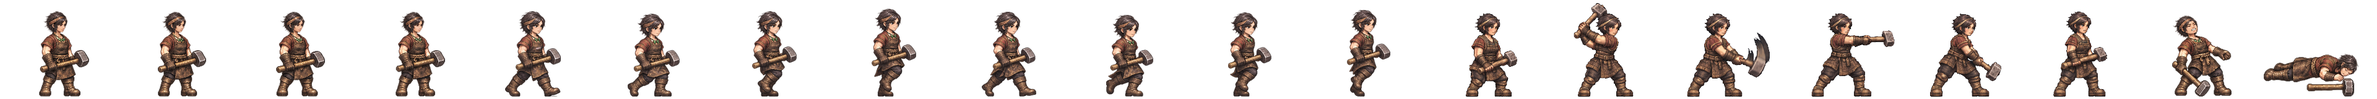
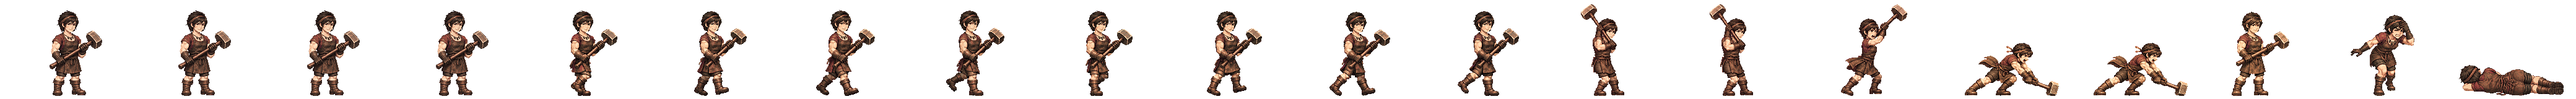
대가야 쇠모 전투 띠를 새 방식으로: 서기·걷기·쇠망치 내려찍기 여덟 칸·머리띠 고치기·쓰러짐·맞음 (Codex 그림 · 눈 검수와 독립 검수) · 옛 2배 그림 연결 지움
Claude-Session: https://claude.ai/code/session_01TRiuN7s6aDfSnaHxrkctmU

Changed region(s): [[0.0, 0.0312, 1.0, 1.0]]

diff --git a/src/realm/data/spritePx.ts b/src/realm/data/spritePx.ts
@@ -1,3 +1,3 @@
 /** public/realm/anim-px/manifest.json 의 사본 — tools/sprite-normalize.mjs 가 만든다 (손으로 고치지 말 것). 칸 [가로, 세로] · feet = 발 줄(칸 위에서 y) · bodyPx = 서 있는 몸 키 */
 import { expandManifest } from './sprite-manifest.ts'
-export const SPRITE_PX: Readonly<Record<string, { readonly cell: readonly [number, number]; readonly feet: number; readonly bodyPx: number; readonly kind: 'general' | 'soldier' | 'folk' | 'crowd'; readonly cells: number }>> = expandManifest<{ readonly cell: readonly [number, number]; readonly feet: number; readonly bodyPx: number; readonly kind: 'general' | 'soldier' | 'folk' | 'crowd'; readonly cells: number }>([{"cell":[166,128],"feet":126,"bodyPx":124,"kind":"soldier","cells":20},{"cell":[116,128],"feet":126,"bodyPx":117,"kind":"soldier","cells":20},{"cell":[127,128],"feet":126,"bodyPx":116,"kind":"soldier","cells":20},{"cell":[269,128],"feet":126,"bodyPx":126,"kind":"soldier","cells":20},{"cell":[503,128],"feet":126,"bodyPx":127,"kind":"soldier","cells":20},{"cell":[614,128],"feet":126,"bodyPx":126,"kind":"soldier","cells":20},{"cell":[200,160],"feet":156,"bodyPx":138,"kind":"general","cells":20},{"cell":[208,160],"feet":155,"bodyPx":138,"kind":"general","cells":20},{"cell":[208,160],"feet":154,"bodyPx":138,"kind":"general","cells":20},{"cell":[304,160],"feet":155,"bodyPx":135,"kind":"general","cells":20},{"cell":[184,160],"feet":156,"bodyPx":138,"kind":"general","cells":20},{"cell":[208,160],"feet":154,"bodyPx":136,"kind":"general","cells":20},{"cell":[232,160],"feet":156,"bodyPx":138,"kind":"general","cells":20},{"cell":[208,160],"feet":156,"bodyPx":138,"kind":"general","cells":20},{"cell":[168,160],"feet":156,"bodyPx":124,"kind":"general","cells":20},{"cell":[216,160],"feet":156,"bodyPx":130,"kind":"general","cells":20},{"cell":[200,160],"feet":156,"bodyPx":116,"kind":"general","cells":20},{"cell":[192,160],"feet":156,"bodyPx":138,"kind":"general","cells":20},{"cell":[208,160],"feet":154,"bodyPx":135,"kind":"general","cells":20},{"cell":[280,160],"feet":156,"bodyPx":138,"kind":"general","cells":20},{"cell":[232,160],"feet":156,"bodyPx":134,"kind":"general","cells":20},{"cell":[144,160],"feet":156,"bodyPx":70,"kind":"general","cells":20},{"cell":[208,160],"feet":156,"bodyPx":70,"kind":"general","cells":20},{"cell":[192,160],"feet":156,"bodyPx":70,"kind":"general","cells":20},{"cell":[240,160],"feet":155,"bodyPx":138,"kind":"general","cells":20},{"cell":[192,160],"feet":156,"bodyPx":128,"kind":"general","cells":20},{"cell":[224,160],"feet":155,"bodyPx":138,"kind":"general","cells":20},{"cell":[208,160],"feet":154,"bodyPx":137,"kind":"general","cells":20},{"cell":[216,160],"feet":156,"bodyPx":138,"kind":"general","cells":20},{"cell":[208,160],"feet":156,"bodyPx":134,"kind":"general","cells":20},{"cell":[208,160],"feet":154,"bodyPx":130,"kind":"general","cells":20},{"cell":[248,160],"feet":156,"bodyPx":138,"kind":"general","cells":20},{"cell":[248,160],"feet":155,"bodyPx":138,"kind":"general","cells":20},{"cell":[192,160],"feet":155,"bodyPx":138,"kind":"general","cells":20},{"cell":[192,160],"feet":156,"bodyPx":124,"kind":"general","cells":20},{"cell":[208,160],"feet":154,"bodyPx":131,"kind":"general","cells":20},{"cell":[256,160],"feet":156,"bodyPx":138,"kind":"general","cells":20},{"cell":[240,160],"feet":156,"bodyPx":138,"kind":"general","cells":20},{"cell":[232,160],"feet":156,"bodyPx":73,"kind":"general","cells":20},{"cell":[224,160],"feet":156,"bodyPx":138,"kind":"general","cells":20},{"cell":[224,160],"feet":156,"bodyPx":128,"kind":"general","cells":20},{"cell":[176,160],"feet":156,"bodyPx":129,"kind":"general","cells":20},{"cell":[208,160],"feet":154,"bodyPx":139,"kind":"general","cells":20},{"cell":[232,160],"feet":155,"bodyPx":138,"kind":"general","cells":20},{"cell":[208,160],"feet":156,"bodyPx":132,"kind":"general","cells":20},{"cell":[184,160],"feet":156,"bodyPx":122,"kind":"general","cells":20},{"cell":[280,160],"feet":155,"bodyPx":133,"kind":"general","cells":20},{"cell":[176,160],"feet":156,"bodyPx":70,"kind":"general","cells":20},{"cell":[186,128],"feet":126,"bodyPx":127,"kind":"soldier","cells":20},{"cell":[298,128],"feet":126,"bodyPx":126,"kind":"soldier","cells":20},{"cell":[82,128],"feet":126,"bodyPx":114,"kind":"folk","cells":8},{"cell":[134,128],"feet":126,"bodyPx":119,"kind":"soldier","cells":20},{"cell":[380,128],"feet":126,"bodyPx":124,"kind":"soldier","cells":20},{"cell":[114,128],"feet":126,"bodyPx":115,"kind":"soldier","cells":20},{"cell":[122,128],"feet":126,"bodyPx":114,"kind":"soldier","cells":20},{"cell":[254,128],"feet":126,"bodyPx":128,"kind":"soldier","cells":20},{"cell":[438,128],"feet":126,"bodyPx":126,"kind":"soldier","cells":20},{"cell":[88,128],"feet":126,"bodyPx":113,"kind":"folk","cells":8},{"cell":[100,128],"feet":126,"bodyPx":115,"kind":"folk","cells":8},{"cell":[108,128],"feet":126,"bodyPx":115,"kind":"folk","cells":8},{"cell":[63,128],"feet":126,"bodyPx":113,"kind":"folk","cells":8},{"cell":[69,96],"feet":96,"bodyPx":96,"kind":"crowd","cells":1},{"cell":[54,96],"feet":96,"bodyPx":96,"kind":"crowd","cells":1},{"cell":[47,96],"feet":96,"bodyPx":96,"kind":"crowd","cells":1},{"cell":[49,96],"feet":96,"bodyPx":96,"kind":"crowd","cells":1},{"cell":[57,96],"feet":96,"bodyPx":96,"kind":"crowd","cells":1},{"cell":[55,96],"feet":96,"bodyPx":96,"kind":"crowd","cells":1},{"cell":[45,96],"feet":96,"bodyPx":96,"kind":"crowd","cells":1},{"cell":[53,96],"feet":96,"bodyPx":96,"kind":"crowd","cells":1},{"cell":[64,96],"feet":96,"bodyPx":96,"kind":"crowd","cells":1},{"cell":[264,160],"feet":156,"bodyPx":138,"kind":"general","cells":20},{"cell":[184,160],"feet":156,"bodyPx":124,"kind":"general","cells":20},{"cell":[208,160],"feet":154,"bodyPx":134,"kind":"general","cells":20},{"cell":[224,160],"feet":156,"bodyPx":133,"kind":"general","cells":20},{"cell":[184,160],"feet":156,"bodyPx":137,"kind":"general","cells":20},{"cell":[176,160],"feet":156,"bodyPx":130,"kind":"general","cells":20},{"cell":[216,160],"feet":156,"bodyPx":134,"kind":"general","cells":20},{"cell":[216,160],"feet":156,"bodyPx":132,"kind":"general","cells":20},{"cell":[288,160],"feet":156,"bodyPx":138,"kind":"general","cells":20},{"cell":[192,160],"feet":156,"bodyPx":118,"kind":"general","cells":20},{"cell":[208,160],"feet":154,"bodyPx":132,"kind":"general","cells":20},{"cell":[208,160],"feet":154,"bodyPx":128,"kind":"general","cells":20},{"cell":[240,160],"feet":156,"bodyPx":128,"kind":"general","cells":20},{"cell":[184,160],"feet":156,"bodyPx":132,"kind":"general","cells":20},{"cell":[208,160],"feet":156,"bodyPx":123,"kind":"general","cells":20},{"cell":[192,160],"feet":156,"bodyPx":135,"kind":"general","cells":20},{"cell":[176,160],"feet":156,"bodyPx":116,"kind":"general","cells":20},{"cell":[272,160],"feet":156,"bodyPx":138,"kind":"general","cells":20},{"cell":[176,160],"feet":156,"bodyPx":138,"kind":"general","cells":20},{"cell":[176,160],"feet":156,"bodyPx":122,"kind":"general","cells":20},{"cell":[232,160],"feet":156,"bodyPx":127,"kind":"general","cells":20},{"cell":[184,160],"feet":156,"bodyPx":134,"kind":"general","cells":20},{"cell":[168,160],"feet":156,"bodyPx":138,"kind":"general","cells":20},{"cell":[176,160],"feet":156,"bodyPx":137,"kind":"general","cells":20},{"cell":[184,160],"feet":156,"bodyPx":133,"kind":"general","cells":20}],[["axe",0],["bandit-chief",1],["bandit-club",2],["boat",3],["bow",4],["crossbow",5],["gen-adogan",6],["gen-alpyeong",7],["gen-ara",8],["gen-areum",8],["gen-aryeong",9],["gen-bakdal",8],["gen-baram",8],["gen-bdanbi",10],["gen-beom",11],["gen-beombal",8],["gen-beomi",8],["gen-bira",12],["gen-biryu",13],["gen-budeul",8],["gen-byeol",8],["gen-daemusin",14],["gen-daeso",15],["gen-dallae2",10],["gen-dalli",8],["gen-damul",16],["gen-danbi",8],["gen-dangung",17],["gen-darae",18],["gen-dokmudeom",8],["gen-duman",19],["gen-eomni",8],["gen-eureum",20],["gen-g-bow",21],["gen-g-spear",22],["gen-g-sword",23],["gen-gaennae",8],["gen-gamsil",24],["gen-gaon",18],["gen-geota",13],["gen-geumbawi",10],["gen-geumha",25],["gen-goeun",8],["gen-gom",26],["gen-gomok",13],["gen-gureum",8],["gen-guryema",17],["gen-gwaeyu",12],["gen-haebi",8],["gen-haedal",6],["gen-haesol",8],["gen-halla",27],["gen-heo",8],["gen-hneoul",10],["gen-hogong",28],["gen-hojin",13],["gen-horselord",29],["gen-hwalmi",30],["gen-hyeokgeose",17],["gen-hyeopbo",6],["gen-irang",8],["gen-jibaekho",31],["gen-jinha",32],["gen-jita",33],["gen-jumong",34],["gen-keundol",7],["gen-maehwa",35],["gen-maenun",17],["gen-malgalgi",36],["gen-mari",37],["gen-maro",31],["gen-maryeo",13],["gen-mdallae",8],["gen-mir",6],["gen-mount",38],["gen-mulbeom",27],["gen-mulsae",27],["gen-musoe",28],["gen-noeul",8],["gen-nuri",8],["gen-ocheongan",39],["gen-odi",8],["gen-odogan",6],["gen-ogan",17],["gen-oi",40],["gen-olddaeso",20],["gen-onjo",41],["gen-pidogan",13],["gen-sagong",42],["gen-sdallae",6],["gen-sincheongan",8],["gen-singwigan",28],["gen-sinneoul",8],["gen-sobeol",43],["gen-soebi",6],["gen-soebo",44],["gen-soenun",42],["gen-sogeumbi",27],["gen-songbi",39],["gen-songyang",45],["gen-sori",8],["gen-soseono",46],["gen-suro",17],["gen-tahae",6],["gen-tneoul",8],["gen-w-bow",21],["gen-w-spear",47],["gen-waechief",13],["gen-wan",28],["gen-yeodogan",13],["gen-yucheongan",8],["gen-yusugan",31],["horse",48],["marine",49],["migrant",50],["militia",51],["pike",52],["pirate-captain",53],["pirate-sword",54],["shield",55],["spear",56],["villager-builder",57],["villager-farmer",58],["villager-porter",59],["villager-woman",60],["crowd-b1",61],["crowd-b2",62],["crowd-b3",63],["crowd-b4",64],["crowd-b5",65],["crowd-b6",66],["crowd-f1",61],["crowd-f2",66],["crowd-f3",67],["crowd-f4",68],["crowd-f5",61],["crowd-f6",69],["gen-dalbit",13],["gen-base-g-07-drunk-warrior",17],["gen-base-g-40-anya-adan",13],["gen-base-w-13-young-archer",8],["gen-base-g-03-sea-trader",37],["gen-base-w-10-pirate-captain",42],["gen-base-w-64-miri-dallae",42],["gen-base-g-41-goja-bau",37],["gen-base-g-42-dokro-garam",70],["gen-base-g-09-farmer-conscript",28],["gen-base-w-02-goguryeo-lady",8],["gen-base-w-17-mahan-pearl-diver",8],["gen-base-g-17-saro-isageum",44],["gen-base-g-18-daegaya-king",71],["gen-base-g-35-dabeol-dalgu",13],["gen-base-g-19-sabeol-veteran",28],["gen-base-w-23-usisan-whale-queen",8],["gen-base-g-36-gammun-gamdol",39],["gen-base-g-20-samul-sea-lord",36],["gen-base-g-37-eumjeup-jeup",10],["gen-base-g-38-chopal-palmae",17],["gen-base-w-75-daegaya-soemoe",17],["gen-base-g-45-dabeol-deulgae",10],["gen-base-g-04-jinhan-giant",13],["gen-base-g-08-veteran",13],["gen-base-w-18-jinhan-salt-widow",8],["gen-base-w-12-court-dancer",72],["gen-base-w-83-gyeonji-beodeul",73],["gen-base-w-05-baekje-queen",18],["gen-base-w-21-baekje-court-dancer",10],["gen-base-g-01-master-smith",74],["gen-base-g-93-jomun-solgae",75],["gen-base-g-57-bihwa-neup",37],["gen-base-w-72-eumjeup-beol",8],["gen-base-w-102-garak-dana",42],["gen-base-g-68-baekje-onnuri",13],["gen-base-w-27-mokji-jinha",6],["gen-base-g-22-ungcheon-gomnae",6],["gen-base-g-23-sangdang-soedal",13],["gen-base-g-24-wansan-onsan",6],["gen-base-g-25-balla-keunmoe",28],["gen-base-g-61-heomcheuk-bawi",28],["gen-base-g-88-wander-soeul",39],["gen-base-w-14-feast-spy",8],["gen-base-g-12-silla-youth",76],["gen-base-w-08-mahan-warrior",8],["gen-base-g-62-beonye-hanul",37],["gen-base-g-63-heomcheuk-beogeum",13],["gen-base-g-84-wander-seoneul",13],["gen-base-w-50-siljik-mulga",28],["gen-base-g-46-uga-nureongso",28],["gen-base-w-80-usan-gangchi",42],["gen-base-g-47-guga-sanyanggae",28],["gen-base-w-76-gampyeong-baetsagong",8],["gen-base-g-05-mahan-chieftain",77],["gen-base-g-58-usan-uhae",13],["gen-base-g-27-maek-maekdol",13],["gen-base-w-53-hwanna-gabi",42],["gen-base-w-29-golpo-janmul",31],["gen-base-g-53-baekje-haeru",6],["gen-base-w-71-yeonna-neoul",8],["gen-base-w-79-yangmaek-solmae",8],["gen-base-w-34-chopal-deulme",8],["gen-base-g-44-maga-malgup",78],["gen-base-w-31-dabeol-dalbit",42],["gen-base-g-51-biryuna-mulgyeol",39],["gen-base-g-48-gwanna-musoe",13],["gen-base-g-32-uga-sodu",12],["gen-base-g-49-goguryeo-sona",79],["gen-base-g-30-gwanna-soemoe",39],["gen-base-g-52-tamna-oreum",10],["gen-base-g-29-yeonna-myeongsol",34],["gen-base-w-56-dongokjeo-sogeum",72],["gen-base-g-54-mokji-mahan",12],["gen-base-g-33-jeoga-metdol",17],["gen-base-w-36-baekje-maena",8],["gen-base-w-38-sangdang-bulmae",6],["gen-base-w-39-gosaburi-galmae",8],["gen-base-w-40-mujin-munui",80],["gen-base-w-41-hwanna-beodeul",81],["gen-base-w-43-uga-nuri",36],["gen-base-w-45-tamna-oreumbi",10],["gen-base-g-60-golbeol-golgae",10],["gen-base-g-61-apdok-ap",28],["gen-base-g-62-gammun-gamnamu",6],["gen-base-g-63-chopal-yeoul",31],["gen-base-g-64-michuhol-sogeumkkun",37],["gen-base-g-65-sangdang-soemangchi",39],["gen-base-g-66-geonma-malbalgup",82],["gen-base-g-67-gosaburi-buri",83],["gen-base-g-68-mujin-bitgoeul",10],["gen-base-g-69-goryong-yong",39],["gen-base-g-70-siljik-pado",37],["gen-base-w-81-byeokjin-byeolbit",8],["gen-base-w-46-geonma-maru",8],["gen-base-w-48-mujin-mudeung",8],["gen-base-g-26-gampyeong-gaetbeol",12],["gen-base-g-60-eupcha-hangyeol",84],["gen-base-g-15-shaman-man",28],["gen-base-g-85-wander-ure",31],["gen-base-g-43-hwanna-amnok",13],["gen-base-g-50-bullae-gwaha",85],["gen-base-g-55-saro-bakdal",13],["gen-base-g-56-haseulla-gwahama",6],["gen-base-w-06-buyeo-huntress",27],["gen-base-w-22-dongye-tiger-huntress",8],["gen-base-w-25-bihwa-priestess",8],["gen-base-w-24-apdok-queen",8],["gen-base-w-61-iseo-sinae",8],["gen-base-w-26-iseo-tomboy-general",8],["gen-base-g-59-yangmaek-maekson",86],["gen-aw1-haebi",39],["gen-aw1-soseono",87],["gen-aw1-gamsil",10],["gen-aw1-mir",88],["gen-aw1-dangung",6],["gen-aw1-ara",39],["gen-aw1-jumong",89],["gen-aw1-onjo",90],["gen-aw1-base-w-83-gyeonji-beodeul",17],["gen-aw1-heo",70],["gen-aw1-base-g-38-chopal-palmae",6],["gen-aw1-base-w-25-bihwa-priestess",91],["gen-aw1-sori",92],["gen-aw1-gomok",6],["gen-aw1-irang",17],["gen-aw1-budeul",92],["gen-aw1-gom",37],["gen-aw1-sdallae",6],["gen-aw1-base-w-13-young-archer",6],["gen-aw1-base-w-36-baekje-maena",93],["gen-aw1-base-g-09-farmer-conscript",70],["gen-aw1-base-w-02-goguryeo-lady",94],["gen-aw1-haedal",10],["gen-aw1-hogong",6],["gen-aw1-maehwa",88],["gen-aw1-base-w-06-buyeo-huntress",12],["gen-aw1-base-w-08-mahan-warrior",39],["gen-aw1-base-w-29-golpo-janmul",39],["gen-aw1-base-w-31-dabeol-dalbit",17],["gen-aw1-base-w-38-sangdang-bulmae",92],["gen-aw1-bira",28],["gen-aw1-base-w-53-hwanna-gabi",92],["gen-aw1-base-w-56-dongokjeo-sogeum",88],["gen-aw1-base-w-72-eumjeup-beol",17],["gen-aw1-bdanbi",92],["gen-aw1-beom",10],["gen-aw1-beombal",10],["gen-aw1-byeol",17],["gen-aw1-dalli",88],["gen-aw1-malgalgi",31],["gen-aw1-sincheongan",28]])
+export const SPRITE_PX: Readonly<Record<string, { readonly cell: readonly [number, number]; readonly feet: number; readonly bodyPx: number; readonly kind: 'general' | 'soldier' | 'folk' | 'crowd'; readonly cells: number }>> = expandManifest<{ readonly cell: readonly [number, number]; readonly feet: number; readonly bodyPx: number; readonly kind: 'general' | 'soldier' | 'folk' | 'crowd'; readonly cells: number }>([{"cell":[166,128],"feet":126,"bodyPx":124,"kind":"soldier","cells":20},{"cell":[116,128],"feet":126,"bodyPx":117,"kind":"soldier","cells":20},{"cell":[127,128],"feet":126,"bodyPx":116,"kind":"soldier","cells":20},{"cell":[269,128],"feet":126,"bodyPx":126,"kind":"soldier","cells":20},{"cell":[503,128],"feet":126,"bodyPx":127,"kind":"soldier","cells":20},{"cell":[614,128],"feet":126,"bodyPx":126,"kind":"soldier","cells":20},{"cell":[200,160],"feet":156,"bodyPx":138,"kind":"general","cells":20},{"cell":[208,160],"feet":155,"bodyPx":138,"kind":"general","cells":20},{"cell":[208,160],"feet":154,"bodyPx":138,"kind":"general","cells":20},{"cell":[304,160],"feet":155,"bodyPx":135,"kind":"general","cells":20},{"cell":[184,160],"feet":156,"bodyPx":138,"kind":"general","cells":20},{"cell":[208,160],"feet":154,"bodyPx":136,"kind":"general","cells":20},{"cell":[232,160],"feet":156,"bodyPx":138,"kind":"general","cells":20},{"cell":[208,160],"feet":156,"bodyPx":138,"kind":"general","cells":20},{"cell":[168,160],"feet":156,"bodyPx":124,"kind":"general","cells":20},{"cell":[216,160],"feet":156,"bodyPx":130,"kind":"general","cells":20},{"cell":[200,160],"feet":156,"bodyPx":116,"kind":"general","cells":20},{"cell":[192,160],"feet":156,"bodyPx":138,"kind":"general","cells":20},{"cell":[208,160],"feet":154,"bodyPx":135,"kind":"general","cells":20},{"cell":[280,160],"feet":156,"bodyPx":138,"kind":"general","cells":20},{"cell":[232,160],"feet":156,"bodyPx":134,"kind":"general","cells":20},{"cell":[144,160],"feet":156,"bodyPx":70,"kind":"general","cells":20},{"cell":[208,160],"feet":156,"bodyPx":70,"kind":"general","cells":20},{"cell":[192,160],"feet":156,"bodyPx":70,"kind":"general","cells":20},{"cell":[240,160],"feet":155,"bodyPx":138,"kind":"general","cells":20},{"cell":[192,160],"feet":156,"bodyPx":128,"kind":"general","cells":20},{"cell":[224,160],"feet":155,"bodyPx":138,"kind":"general","cells":20},{"cell":[208,160],"feet":154,"bodyPx":137,"kind":"general","cells":20},{"cell":[216,160],"feet":156,"bodyPx":138,"kind":"general","cells":20},{"cell":[208,160],"feet":156,"bodyPx":134,"kind":"general","cells":20},{"cell":[208,160],"feet":154,"bodyPx":130,"kind":"general","cells":20},{"cell":[248,160],"feet":156,"bodyPx":138,"kind":"general","cells":20},{"cell":[248,160],"feet":155,"bodyPx":138,"kind":"general","cells":20},{"cell":[192,160],"feet":155,"bodyPx":138,"kind":"general","cells":20},{"cell":[192,160],"feet":156,"bodyPx":124,"kind":"general","cells":20},{"cell":[208,160],"feet":154,"bodyPx":131,"kind":"general","cells":20},{"cell":[256,160],"feet":156,"bodyPx":138,"kind":"general","cells":20},{"cell":[240,160],"feet":156,"bodyPx":138,"kind":"general","cells":20},{"cell":[232,160],"feet":156,"bodyPx":73,"kind":"general","cells":20},{"cell":[224,160],"feet":156,"bodyPx":138,"kind":"general","cells":20},{"cell":[224,160],"feet":156,"bodyPx":128,"kind":"general","cells":20},{"cell":[176,160],"feet":156,"bodyPx":129,"kind":"general","cells":20},{"cell":[208,160],"feet":154,"bodyPx":139,"kind":"general","cells":20},{"cell":[232,160],"feet":155,"bodyPx":138,"kind":"general","cells":20},{"cell":[208,160],"feet":156,"bodyPx":132,"kind":"general","cells":20},{"cell":[184,160],"feet":156,"bodyPx":122,"kind":"general","cells":20},{"cell":[280,160],"feet":155,"bodyPx":133,"kind":"general","cells":20},{"cell":[176,160],"feet":156,"bodyPx":70,"kind":"general","cells":20},{"cell":[186,128],"feet":126,"bodyPx":127,"kind":"soldier","cells":20},{"cell":[298,128],"feet":126,"bodyPx":126,"kind":"soldier","cells":20},{"cell":[82,128],"feet":126,"bodyPx":114,"kind":"folk","cells":8},{"cell":[134,128],"feet":126,"bodyPx":119,"kind":"soldier","cells":20},{"cell":[380,128],"feet":126,"bodyPx":124,"kind":"soldier","cells":20},{"cell":[114,128],"feet":126,"bodyPx":115,"kind":"soldier","cells":20},{"cell":[122,128],"feet":126,"bodyPx":114,"kind":"soldier","cells":20},{"cell":[254,128],"feet":126,"bodyPx":128,"kind":"soldier","cells":20},{"cell":[438,128],"feet":126,"bodyPx":126,"kind":"soldier","cells":20},{"cell":[88,128],"feet":126,"bodyPx":113,"kind":"folk","cells":8},{"cell":[100,128],"feet":126,"bodyPx":115,"kind":"folk","cells":8},{"cell":[108,128],"feet":126,"bodyPx":115,"kind":"folk","cells":8},{"cell":[63,128],"feet":126,"bodyPx":113,"kind":"folk","cells":8},{"cell":[69,96],"feet":96,"bodyPx":96,"kind":"crowd","cells":1},{"cell":[54,96],"feet":96,"bodyPx":96,"kind":"crowd","cells":1},{"cell":[47,96],"feet":96,"bodyPx":96,"kind":"crowd","cells":1},{"cell":[49,96],"feet":96,"bodyPx":96,"kind":"crowd","cells":1},{"cell":[57,96],"feet":96,"bodyPx":96,"kind":"crowd","cells":1},{"cell":[55,96],"feet":96,"bodyPx":96,"kind":"crowd","cells":1},{"cell":[45,96],"feet":96,"bodyPx":96,"kind":"crowd","cells":1},{"cell":[53,96],"feet":96,"bodyPx":96,"kind":"crowd","cells":1},{"cell":[64,96],"feet":96,"bodyPx":96,"kind":"crowd","cells":1},{"cell":[264,160],"feet":156,"bodyPx":138,"kind":"general","cells":20},{"cell":[184,160],"feet":156,"bodyPx":124,"kind":"general","cells":20},{"cell":[208,160],"feet":154,"bodyPx":134,"kind":"general","cells":20},{"cell":[224,160],"feet":156,"bodyPx":133,"kind":"general","cells":20},{"cell":[184,160],"feet":156,"bodyPx":137,"kind":"general","cells":20},{"cell":[176,160],"feet":156,"bodyPx":130,"kind":"general","cells":20},{"cell":[216,160],"feet":156,"bodyPx":134,"kind":"general","cells":20},{"cell":[216,160],"feet":156,"bodyPx":132,"kind":"general","cells":20},{"cell":[288,160],"feet":156,"bodyPx":138,"kind":"general","cells":20},{"cell":[192,160],"feet":156,"bodyPx":118,"kind":"general","cells":20},{"cell":[208,160],"feet":154,"bodyPx":132,"kind":"general","cells":20},{"cell":[208,160],"feet":154,"bodyPx":128,"kind":"general","cells":20},{"cell":[240,160],"feet":156,"bodyPx":128,"kind":"general","cells":20},{"cell":[184,160],"feet":156,"bodyPx":132,"kind":"general","cells":20},{"cell":[208,160],"feet":156,"bodyPx":123,"kind":"general","cells":20},{"cell":[192,160],"feet":156,"bodyPx":135,"kind":"general","cells":20},{"cell":[176,160],"feet":156,"bodyPx":116,"kind":"general","cells":20},{"cell":[272,160],"feet":156,"bodyPx":138,"kind":"general","cells":20},{"cell":[176,160],"feet":156,"bodyPx":138,"kind":"general","cells":20},{"cell":[176,160],"feet":156,"bodyPx":122,"kind":"general","cells":20},{"cell":[232,160],"feet":156,"bodyPx":127,"kind":"general","cells":20},{"cell":[184,160],"feet":156,"bodyPx":134,"kind":"general","cells":20},{"cell":[168,160],"feet":156,"bodyPx":138,"kind":"general","cells":20},{"cell":[176,160],"feet":156,"bodyPx":137,"kind":"general","cells":20},{"cell":[184,160],"feet":156,"bodyPx":133,"kind":"general","cells":20}],[["axe",0],["bandit-chief",1],["bandit-club",2],["boat",3],["bow",4],["crossbow",5],["gen-adogan",6],["gen-alpyeong",7],["gen-ara",8],["gen-areum",8],["gen-aryeong",9],["gen-bakdal",8],["gen-baram",8],["gen-bdanbi",10],["gen-beom",11],["gen-beombal",8],["gen-beomi",8],["gen-bira",12],["gen-biryu",13],["gen-budeul",8],["gen-byeol",8],["gen-daemusin",14],["gen-daeso",15],["gen-dallae2",10],["gen-dalli",8],["gen-damul",16],["gen-danbi",8],["gen-dangung",17],["gen-darae",18],["gen-dokmudeom",8],["gen-duman",19],["gen-eomni",8],["gen-eureum",20],["gen-g-bow",21],["gen-g-spear",22],["gen-g-sword",23],["gen-gaennae",8],["gen-gamsil",24],["gen-gaon",18],["gen-geota",13],["gen-geumbawi",10],["gen-geumha",25],["gen-goeun",8],["gen-gom",26],["gen-gomok",13],["gen-gureum",8],["gen-guryema",17],["gen-gwaeyu",12],["gen-haebi",8],["gen-haedal",6],["gen-haesol",8],["gen-halla",27],["gen-heo",8],["gen-hneoul",10],["gen-hogong",28],["gen-hojin",13],["gen-horselord",29],["gen-hwalmi",30],["gen-hyeokgeose",17],["gen-hyeopbo",6],["gen-irang",8],["gen-jibaekho",31],["gen-jinha",32],["gen-jita",33],["gen-jumong",34],["gen-keundol",7],["gen-maehwa",35],["gen-maenun",17],["gen-malgalgi",36],["gen-mari",37],["gen-maro",31],["gen-maryeo",13],["gen-mdallae",8],["gen-mir",6],["gen-mount",38],["gen-mulbeom",27],["gen-mulsae",27],["gen-musoe",28],["gen-noeul",8],["gen-nuri",8],["gen-ocheongan",39],["gen-odi",8],["gen-odogan",6],["gen-ogan",17],["gen-oi",40],["gen-olddaeso",20],["gen-onjo",41],["gen-pidogan",13],["gen-sagong",42],["gen-sdallae",6],["gen-sincheongan",8],["gen-singwigan",28],["gen-sinneoul",8],["gen-sobeol",43],["gen-soebi",6],["gen-soebo",44],["gen-soenun",42],["gen-sogeumbi",27],["gen-songbi",39],["gen-songyang",45],["gen-sori",8],["gen-soseono",46],["gen-suro",17],["gen-tahae",6],["gen-tneoul",8],["gen-w-bow",21],["gen-w-spear",47],["gen-waechief",13],["gen-wan",28],["gen-yeodogan",13],["gen-yucheongan",8],["gen-yusugan",31],["horse",48],["marine",49],["migrant",50],["militia",51],["pike",52],["pirate-captain",53],["pirate-sword",54],["shield",55],["spear",56],["villager-builder",57],["villager-farmer",58],["villager-porter",59],["villager-woman",60],["crowd-b1",61],["crowd-b2",62],["crowd-b3",63],["crowd-b4",64],["crowd-b5",65],["crowd-b6",66],["crowd-f1",61],["crowd-f2",66],["crowd-f3",67],["crowd-f4",68],["crowd-f5",61],["crowd-f6",69],["gen-dalbit",13],["gen-base-g-07-drunk-warrior",17],["gen-base-g-40-anya-adan",13],["gen-base-w-13-young-archer",8],["gen-base-g-03-sea-trader",37],["gen-base-w-10-pirate-captain",42],["gen-base-w-64-miri-dallae",42],["gen-base-g-41-goja-bau",37],["gen-base-g-42-dokro-garam",70],["gen-base-g-09-farmer-conscript",28],["gen-base-w-02-goguryeo-lady",8],["gen-base-w-17-mahan-pearl-diver",8],["gen-base-g-17-saro-isageum",44],["gen-base-g-18-daegaya-king",71],["gen-base-g-35-dabeol-dalgu",13],["gen-base-g-19-sabeol-veteran",28],["gen-base-w-23-usisan-whale-queen",8],["gen-base-g-36-gammun-gamdol",39],["gen-base-g-20-samul-sea-lord",36],["gen-base-g-37-eumjeup-jeup",10],["gen-base-g-38-chopal-palmae",17],["gen-base-w-75-daegaya-soemoe",8],["gen-base-g-45-dabeol-deulgae",10],["gen-base-g-04-jinhan-giant",13],["gen-base-g-08-veteran",13],["gen-base-w-18-jinhan-salt-widow",8],["gen-base-w-12-court-dancer",72],["gen-base-w-83-gyeonji-beodeul",73],["gen-base-w-05-baekje-queen",18],["gen-base-w-21-baekje-court-dancer",10],["gen-base-g-01-master-smith",74],["gen-base-g-93-jomun-solgae",75],["gen-base-g-57-bihwa-neup",37],["gen-base-w-72-eumjeup-beol",8],["gen-base-w-102-garak-dana",42],["gen-base-g-68-baekje-onnuri",13],["gen-base-w-27-mokji-jinha",6],["gen-base-g-22-ungcheon-gomnae",6],["gen-base-g-23-sangdang-soedal",13],["gen-base-g-24-wansan-onsan",6],["gen-base-g-25-balla-keunmoe",28],["gen-base-g-61-heomcheuk-bawi",28],["gen-base-g-88-wander-soeul",39],["gen-base-w-14-feast-spy",8],["gen-base-g-12-silla-youth",76],["gen-base-w-08-mahan-warrior",8],["gen-base-g-62-beonye-hanul",37],["gen-base-g-63-heomcheuk-beogeum",13],["gen-base-g-84-wander-seoneul",13],["gen-base-w-50-siljik-mulga",28],["gen-base-g-46-uga-nureongso",28],["gen-base-w-80-usan-gangchi",42],["gen-base-g-47-guga-sanyanggae",28],["gen-base-w-76-gampyeong-baetsagong",8],["gen-base-g-05-mahan-chieftain",77],["gen-base-g-58-usan-uhae",13],["gen-base-g-27-maek-maekdol",13],["gen-base-w-53-hwanna-gabi",42],["gen-base-w-29-golpo-janmul",31],["gen-base-g-53-baekje-haeru",6],["gen-base-w-71-yeonna-neoul",8],["gen-base-w-79-yangmaek-solmae",8],["gen-base-w-34-chopal-deulme",8],["gen-base-g-44-maga-malgup",78],["gen-base-w-31-dabeol-dalbit",42],["gen-base-g-51-biryuna-mulgyeol",39],["gen-base-g-48-gwanna-musoe",13],["gen-base-g-32-uga-sodu",12],["gen-base-g-49-goguryeo-sona",79],["gen-base-g-30-gwanna-soemoe",39],["gen-base-g-52-tamna-oreum",10],["gen-base-g-29-yeonna-myeongsol",34],["gen-base-w-56-dongokjeo-sogeum",72],["gen-base-g-54-mokji-mahan",12],["gen-base-g-33-jeoga-metdol",17],["gen-base-w-36-baekje-maena",8],["gen-base-w-38-sangdang-bulmae",6],["gen-base-w-39-gosaburi-galmae",8],["gen-base-w-40-mujin-munui",80],["gen-base-w-41-hwanna-beodeul",81],["gen-base-w-43-uga-nuri",36],["gen-base-w-45-tamna-oreumbi",10],["gen-base-g-60-golbeol-golgae",10],["gen-base-g-61-apdok-ap",28],["gen-base-g-62-gammun-gamnamu",6],["gen-base-g-63-chopal-yeoul",31],["gen-base-g-64-michuhol-sogeumkkun",37],["gen-base-g-65-sangdang-soemangchi",39],["gen-base-g-66-geonma-malbalgup",82],["gen-base-g-67-gosaburi-buri",83],["gen-base-g-68-mujin-bitgoeul",10],["gen-base-g-69-goryong-yong",39],["gen-base-g-70-siljik-pado",37],["gen-base-w-81-byeokjin-byeolbit",8],["gen-base-w-46-geonma-maru",8],["gen-base-w-48-mujin-mudeung",8],["gen-base-g-26-gampyeong-gaetbeol",12],["gen-base-g-60-eupcha-hangyeol",84],["gen-base-g-15-shaman-man",28],["gen-base-g-85-wander-ure",31],["gen-base-g-43-hwanna-amnok",13],["gen-base-g-50-bullae-gwaha",85],["gen-base-g-55-saro-bakdal",13],["gen-base-g-56-haseulla-gwahama",6],["gen-base-w-06-buyeo-huntress",27],["gen-base-w-22-dongye-tiger-huntress",8],["gen-base-w-25-bihwa-priestess",8],["gen-base-w-24-apdok-queen",8],["gen-base-w-61-iseo-sinae",8],["gen-base-w-26-iseo-tomboy-general",8],["gen-base-g-59-yangmaek-maekson",86],["gen-aw1-haebi",39],["gen-aw1-soseono",87],["gen-aw1-gamsil",10],["gen-aw1-mir",88],["gen-aw1-dangung",6],["gen-aw1-ara",39],["gen-aw1-jumong",89],["gen-aw1-onjo",90],["gen-aw1-base-w-83-gyeonji-beodeul",17],["gen-aw1-heo",70],["gen-aw1-base-g-38-chopal-palmae",6],["gen-aw1-base-w-25-bihwa-priestess",91],["gen-aw1-sori",92],["gen-aw1-gomok",6],["gen-aw1-irang",17],["gen-aw1-budeul",92],["gen-aw1-gom",37],["gen-aw1-sdallae",6],["gen-aw1-base-w-13-young-archer",6],["gen-aw1-base-w-36-baekje-maena",93],["gen-aw1-base-g-09-farmer-conscript",70],["gen-aw1-base-w-02-goguryeo-lady",94],["gen-aw1-haedal",10],["gen-aw1-hogong",6],["gen-aw1-maehwa",88],["gen-aw1-base-w-06-buyeo-huntress",12],["gen-aw1-base-w-08-mahan-warrior",39],["gen-aw1-base-w-29-golpo-janmul",39],["gen-aw1-base-w-31-dabeol-dalbit",17],["gen-aw1-base-w-38-sangdang-bulmae",92],["gen-aw1-bira",28],["gen-aw1-base-w-53-hwanna-gabi",92],["gen-aw1-base-w-56-dongokjeo-sogeum",88],["gen-aw1-base-w-72-eumjeup-beol",17],["gen-aw1-bdanbi",92],["gen-aw1-beom",10],["gen-aw1-beombal",10],["gen-aw1-byeol",17],["gen-aw1-dalli",88],["gen-aw1-malgalgi",31],["gen-aw1-sincheongan",28]])

diff --git a/src/duel/view.ts b/src/duel/view.ts
@@ -100,7 +100,7 @@ const crowdFront = [1, 2, 3, 4, 5, 6].map((i) => img(`realm/duel/crowd/b${i}.png
 const crowdReady = (set: HTMLImageElement[]): boolean => set.every((im) => im.complete && im.naturalWidth > 0)
 const pxMode = cfg.px !== false && params.get('px') !== '0'
 /** 겨루기 전용 옛 띠(duel/sprites) 대신 열전과 같은 도트 띠(anim-px)를 쓰는 장수 — 두 판에서 같은 모습 · 서기 계획·쓰러지는 칸도 같다 (11-23 범 · 매화 · 달빛 · 11-24 해비 · 아룸) */
-const PX_DUEL: ReadonlySet<string> = new Set(['beom', 'maehwa', 'base-w-31-dabeol-dalbit', 'haebi', 'areum', 'base-w-13-young-archer', 'base-w-10-pirate-captain', 'base-w-17-mahan-pearl-diver', 'base-w-06-buyeo-huntress', 'base-w-64-miri-dallae', 'ara', 'base-w-22-dongye-tiger-huntress', 'noeul', 'sagong', 'sinneoul', 'heo', 'base-w-08-mahan-warrior', 'base-w-23-usisan-whale-queen', 'base-w-26-iseo-tomboy-general', 'base-w-72-eumjeup-beol', 'tneoul', 'odi', 'base-w-76-gampyeong-baetsagong', 'base-w-34-chopal-deulme', 'base-w-102-garak-dana', 'base-w-36-baekje-maena', 'base-w-56-dongokjeo-sogeum', 'budeul', 'base-w-53-hwanna-gabi', 'base-w-18-jinhan-salt-widow', 'beombal', 'irang', 'sogeumbi', 'baram', 'byeol', 'base-w-71-yeonna-neoul', 'base-w-39-gosaburi-galmae', 'base-w-41-hwanna-beodeul', 'base-w-79-yangmaek-solmae', 'base-w-46-geonma-maru', 'base-w-48-mujin-mudeung', 'base-w-80-usan-gangchi', 'base-w-81-byeokjin-byeolbit', 'beomi', 'danbi', 'dalli', 'gureum', 'haesol', 'soenun', 'eomni', 'mulbeom', 'mulsae', 'bakdal', 'darae', 'sori', 'base-w-12-court-dancer', 'hwalmi', 'gaennae', 'dokmudeom', 'base-w-14-feast-spy', 'base-w-25-bihwa-priestess', 'sincheongan', 'base-w-40-mujin-munui', 'halla', 'yucheongan', 'base-w-02-goguryeo-lady', 'gaon', 'base-w-24-apdok-queen', 'base-w-61-iseo-sinae', 'goeun', 'base-w-05-baekje-queen', 'mdallae', 'nuri'])
+const PX_DUEL: ReadonlySet<string> = new Set(['beom', 'maehwa', 'base-w-31-dabeol-dalbit', 'haebi', 'areum', 'base-w-13-young-archer', 'base-w-10-pirate-captain', 'base-w-17-mahan-pearl-diver', 'base-w-06-buyeo-huntress', 'base-w-64-miri-dallae', 'ara', 'base-w-22-dongye-tiger-huntress', 'noeul', 'sagong', 'sinneoul', 'heo', 'base-w-08-mahan-warrior', 'base-w-23-usisan-whale-queen', 'base-w-26-iseo-tomboy-general', 'base-w-72-eumjeup-beol', 'tneoul', 'odi', 'base-w-76-gampyeong-baetsagong', 'base-w-34-chopal-deulme', 'base-w-102-garak-dana', 'base-w-36-baekje-maena', 'base-w-56-dongokjeo-sogeum', 'budeul', 'base-w-53-hwanna-gabi', 'base-w-18-jinhan-salt-widow', 'beombal', 'irang', 'sogeumbi', 'baram', 'byeol', 'base-w-71-yeonna-neoul', 'base-w-39-gosaburi-galmae', 'base-w-41-hwanna-beodeul', 'base-w-79-yangmaek-solmae', 'base-w-46-geonma-maru', 'base-w-48-mujin-mudeung', 'base-w-80-usan-gangchi', 'base-w-81-byeokjin-byeolbit', 'beomi', 'danbi', 'dalli', 'gureum', 'haesol', 'soenun', 'eomni', 'mulbeom', 'mulsae', 'bakdal', 'darae', 'sori', 'base-w-12-court-dancer', 'hwalmi', 'gaennae', 'dokmudeom', 'base-w-14-feast-spy', 'base-w-25-bihwa-priestess', 'sincheongan', 'base-w-40-mujin-munui', 'halla', 'yucheongan', 'base-w-02-goguryeo-lady', 'gaon', 'base-w-24-apdok-queen', 'base-w-61-iseo-sinae', 'goeun', 'base-w-05-baekje-queen', 'mdallae', 'nuri', 'base-w-75-daegaya-soemoe'])
 /** 띠 그림 — 기본은 anim-px(도트 규격) 먼저, 없으면 옛 띠로 (img 의 onerror 가 갈아 끼운다) */
 const strip = (s: string): HTMLImageElement => pxMode
   ? DUEL_ATLASES[s] !== undefined && !PX_DUEL.has(s) ? img(`realm/duel/sprites/gen-${s}.png`, `realm/anim-px/gen-${s}.png`)

diff --git a/src/tune/params.ts b/src/tune/params.ts
@@ -1533,6 +1533,7 @@ export const HAEBI_IDLE = {
     'base-w-05-baekje-queen': { cells: 38, base: [0, 1], hold: 2.4, fall: [18, 20, 21, 19], quirk: [22, 23, 24, 25], quirkTimes: [.3, .32, .4, .28], attack: { cells: [26, 27, 28, 29, 30, 31, 32, 33], times: [.09, .08, .30, .05, .15, .07, .08, .12], hit: 4 }, hurt: [34, 35], rise: [36, 37], xGeom: { h: 224, root: 92, foot: 216 } },
     mdallae: { cells: 38, base: [0, 1], hold: 2.4, fall: [18, 20, 21, 19], quirk: [22, 23, 24, 25], quirkTimes: [.3, .32, .4, .28], attack: { cells: [26, 27, 28, 29, 30, 31, 32, 33], times: [.09, .08, .11, .05, .15, .07, .08, .12], hit: 4 }, hurt: [34, 35], rise: [36, 37], xGeom: { h: 224, root: 92, foot: 216 } },
     nuri: { cells: 38, base: [0, 1], hold: 2.4, fall: [18, 20, 21, 19], quirk: [22, 23, 24, 25], quirkTimes: [.3, .32, .4, .28], attack: { cells: [26, 27, 28, 29, 30, 31, 32, 33], times: [.09, .08, .11, .05, .15, .07, .08, .12], hit: 4 }, hurt: [34, 35], rise: [36, 37], xGeom: { h: 224, root: 92, foot: 216 } },
+    'base-w-75-daegaya-soemoe': { cells: 38, base: [0, 1], hold: 2.4, fall: [18, 20, 21, 19], quirk: [22, 23, 24, 25], quirkTimes: [.3, .32, .4, .28], attack: { cells: [26, 27, 28, 29, 30, 31, 32, 33], times: [.09, .08, .11, .05, .15, .07, .08, .12], hit: 4 }, hurt: [34, 35], rise: [36, 37], xGeom: { h: 224, root: 92, foot: 216 } },
   },
 } as const
 export const HAEBI_ANIM = {

diff --git a/src/raid/hero-hd.ts b/src/raid/hero-hd.ts
@@ -6,7 +6,6 @@ export const HERO_HD: Readonly<Record<string, string>> = {
   'anim-px/gen-base-g-62-beonye-hanul.png': 'anim-px/gen-base-g-62-beonye-hanul_hd.png',
   'anim-px/gen-base-g-61-heomcheuk-bawi.png': 'anim-px/gen-base-g-61-heomcheuk-bawi_hd.png',
   'anim-px/gen-base-w-83-gyeonji-beodeul.png': 'anim-px/gen-base-w-83-gyeonji-beodeul_hd.png',
-  'anim-px/gen-base-w-75-daegaya-soemoe.png': 'anim-px/gen-base-w-75-daegaya-soemoe_hd.png',
   'anim-px/gen-base-w-50-siljik-mulga.png': 'anim-px/gen-base-w-50-siljik-mulga_hd.png',
   'anim-px/gen-base-w-45-tamna-oreumbi.png': 'anim-px/gen-base-w-45-tamna-oreumbi_hd.png',
   'anim-px/gen-base-w-43-uga-nuri.png': 'anim-px/gen-base-w-43-uga-nuri_hd.png',

diff --git a/tools/sprite-kit/anim-harness.py b/tools/sprite-kit/anim-harness.py
@@ -114,6 +114,7 @@ HEROES = {
     'goeun': dict(hit=True, strip='gen-goeun', atk='cast', actw=264, atk8=True, act=True, legacy=(('a', 1), ('b', 3), ('b', 3), ('b', 4))),   # 고은(부채 · handf) · 주술 둘째 묶음(11-25 밤)
     'baekjeq': dict(hit=True, strip='gen-base-w-05-baekje-queen', atk='cast', actw=264, atk8=True, act=True, legacy=(('a', 1), ('b', 3), ('b', 3), ('b', 4))),   # 백제 왕비(향로 · hand · 가슴 L) · 주술 둘째 묶음(11-25 밤)
     'haebi': dict(hit=True, strip='gen-haebi', atk='chop', atk8=True, act=True),   # act = 공격 여덟 칸이 넓은 동작 칸(240×224 · 뿌리 92 · 발 줄 216)
+    'soemoe': dict(hit=True, strip='gen-base-w-75-daegaya-soemoe', atk='chop', atk8=True, act=True),   # 대가야 쇠모(쇠망치 · 가슴 M · 우람) · 11-25 도끼·망치 묶음
     'areum': dict(hit=True, strip='gen-areum', atk='slam', atk8=True, act=True, lock='none'),   # 받은 그림 그대로(얼굴을 떠다 붙이지 않는다 — 11-24: 뭉친 얼굴이 여덟 칸에 퍼졌다) · 옛 lock='face': 메가 머리 뒤로 지나간다 — 머리 상자는 메를 자르고(「포스터」), 윗몸을 통째로 묶으면 떠다닌다(11-24 형) → 얼굴 안쪽만 묶는다
 }
 

diff --git a/tools/sprite-kit/hit-jobs.py b/tools/sprite-kit/hit-jobs.py
@@ -19,7 +19,7 @@ spec = importlib.util.spec_from_file_location('harness', HERE + '/anim-harness.p
 H = importlib.util.module_from_spec(spec)
 spec.loader.exec_module(H)
 
-BUST = dict(gaennae='L', galmae='XL', beodeul='L', heo='L', deulme='L', tneoul='L', budeul='L', gabi='L', baetsa='XL', odi='XL', sinneoul='XL', dana='XL', sogeum='XL', saltw='XL')
+BUST = dict(soebi='L', gaennae='L', galmae='XL', beodeul='L', heo='L', deulme='L', tneoul='L', budeul='L', gabi='L', baetsa='XL', odi='XL', sinneoul='XL', dana='XL', sogeum='XL', saltw='XL')
 KIND = dict(thrust='pole2', chop='pole2', slam='pole2', slash='sword', stab='sword', bow='bow', claw='none')
 
 WEAPON = {
